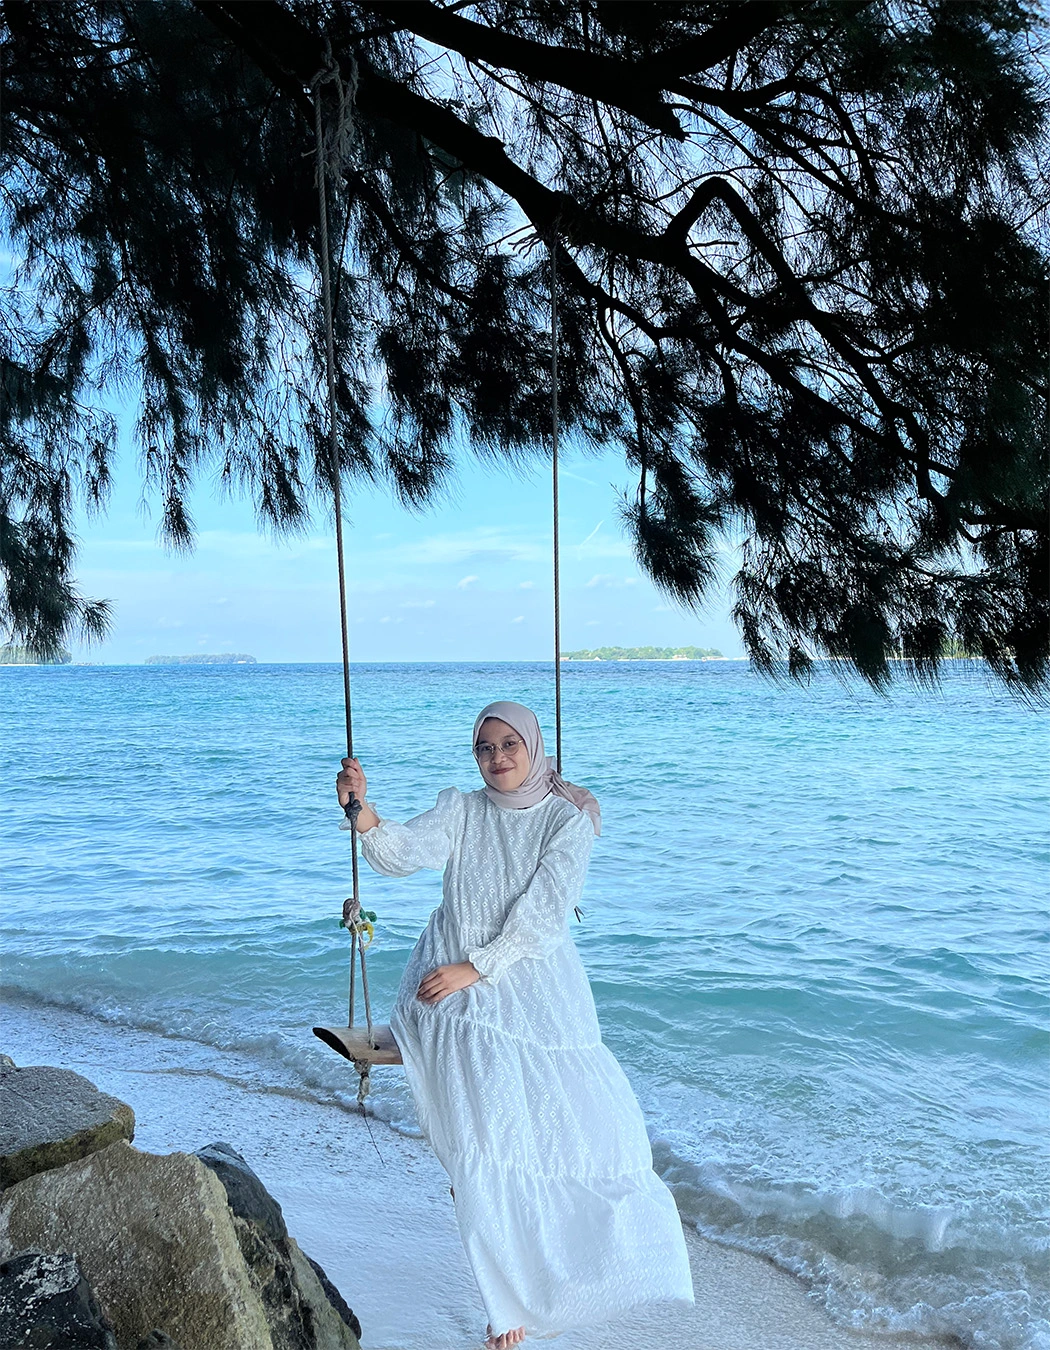
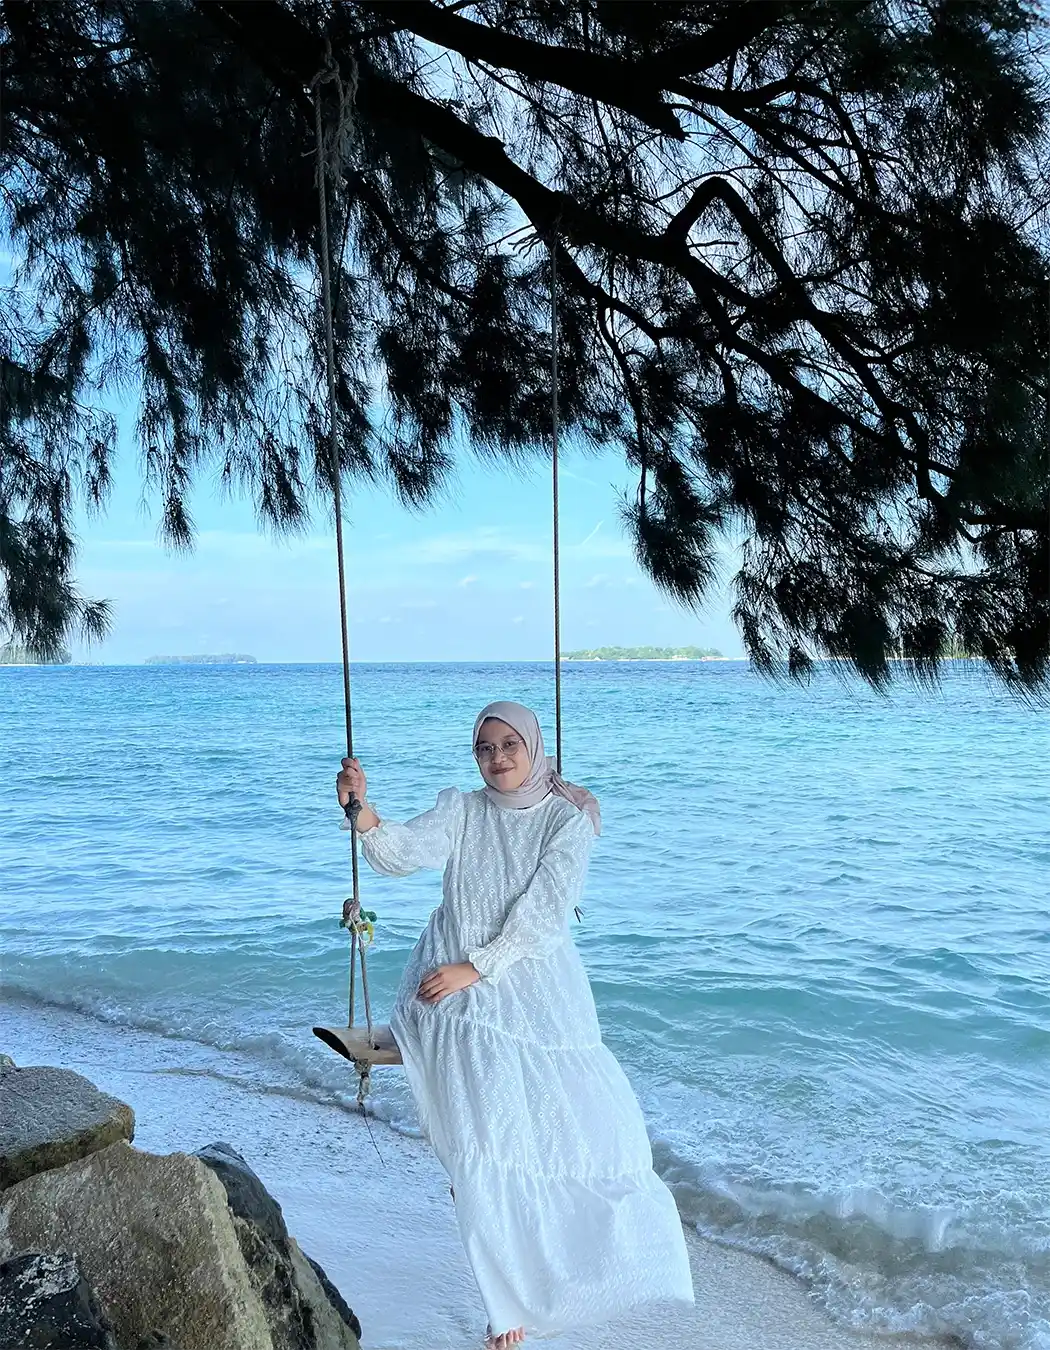
perbaikan load ringan

diff --git a/script.js b/script.js
@@ -27,54 +27,53 @@ window.openInvitation = function () {
   const content = document.getElementById("content");
   const hero = document.querySelector(".hero");
 
-  // 🎵 (optional safety)
   const music = document.getElementById("music");
   const btn = document.getElementById("musicBtn");
   let isPlaying = false;
 
-  // buka cover
-  cover.classList.add("open");
+  // fade cover
+  cover.classList.add("hide");
 
+  // 🎬 delay biar smooth
   setTimeout(() => {
 
-    // tampilkan content
+    // ✅ AKTIFKAN BACKGROUND PREMIUM
+    document.body.classList.add("opened");
+
+    // tampilkan konten
     cover.style.display = "none";
     content.style.display = "block";
 
-    // reset posisi scroll
+    // reset scroll
     window.scrollTo({ top: 0, behavior: "instant" });
 
-    // 🎬 TIMELINE CINEMATIC
+    // 🎬 GSAP TIMELINE
     const tl = gsap.timeline();
 
-    // 🌄 background fade
     tl.fromTo(".bg-anim",
       { opacity: 0 },
       { opacity: 1, duration: 2 }
     )
 
-    // 🌫 kabut muncul pelan
     .fromTo(".fog",
       { opacity: 0 },
       { opacity: 0.5, duration: 3 },
       "-=1.5"
     )
 
-    // 🌳 pohon muncul
     .fromTo(".pohon",
       { opacity: 0, y: 30 },
       { opacity: 1, y: 0, duration: 2 },
       "-=2"
     )
 
-    // 🏡 rumah zoom masuk (fokus utama)
     .fromTo(".rumah-anim",
       { scale: 0.6, opacity: 0, y: 50 },
       { scale: 1, opacity: 1, y: 0, duration: 1.5, ease: "power3.out" },
       "-=1.5"
     );
 
-    // 🌳 pohon goyang halus (AFTER muncul)
+    // 🌳 animasi loop
     gsap.to(".pohon", {
       rotate: 2,
       duration: 3,
@@ -84,7 +83,7 @@ window.openInvitation = function () {
       delay: 2.5
     });
 
-    // 🌫 kabut jalan (loop)
+    // 🌫 kabut loop
     gsap.to(".fog-1", {
       x: "-50%",
       duration: 60,
@@ -99,7 +98,7 @@ window.openInvitation = function () {
       ease: "linear"
     });
 
-    // 🦋 kupu (optional)
+    // 🦋 kupu optional
     if (document.querySelector(".kupu")) {
       gsap.to(".kupu", {
         x: 80,
@@ -120,9 +119,7 @@ window.openInvitation = function () {
       });
     }
 
-    
-
-    // 🎵 MUSIC (safe play)
+    // 🎵 MUSIC
     if (music) {
       music.play().then(() => {
         isPlaying = true;
@@ -130,14 +127,14 @@ window.openInvitation = function () {
       }).catch(() => {});
     }
 
-    // ⏳ AUTO SCROLL (lebih cinematic)
+    // ⏳ AUTO SCROLL
     setTimeout(() => {
       if (hero) {
         hero.scrollIntoView({ behavior: "smooth" });
       }
     }, 6000);
 
-  }, 1000);
+  }, 800); // sedikit lebih cepat biar responsif
 };
 /* =========================
    👤 NAMA TAMU

diff --git a/style.css b/style.css
@@ -18,14 +18,23 @@ html, body {
 
 body {
   font-family: 'Poppins', sans-serif;
-  background: linear-gradient(135deg, #0f0f23 0%, #1a1a3e 50%, #2d2d5a 100%);
   color: #fff;
   min-height: 100vh;
   position: relative;
+
+  /* default: KOSONG dulu */
+  background: #0f0f23;
+
+  transition: background 1s ease;
+}
+
+/* setelah dibuka */
+body.opened {
   background: url('assets/bg-web.webp') no-repeat center center;
   background-size: cover;
-  background-attachment: fixed; /* efek premium */
+  background-attachment: fixed;
 }
+
 
 @font-face {
   font-family: 'Stay Classy';
@@ -55,6 +64,12 @@ body {
     url('assets/cover.webp') center/cover no-repeat;
 
   overflow: hidden;
+transition: opacity 1s ease, visibility 1s ease;
+}
+
+.cover.hide {
+  opacity: 0;
+  visibility: hidden;
 }
 
 .guest-section {
@@ -1152,12 +1167,12 @@ body {
 
 .btn-copy {
   background: linear-gradient(45deg, #FFD700, #FFEA00);
-  color: black;
+  color: rgb(255, 255, 255);
   font-weight: bold;
 
   box-shadow:
     0 5px 20px rgba(255,215,0,0.4),
-    inset 0 1px 3px rgba(255,255,255,0.5);
+    inset 0 1px 3px rgba(0, 0, 0, 0.5);
 }
 
 .btn-copy:hover {
@@ -2123,3 +2138,8 @@ section {
   to { transform: translateX(0); }
 }
 
+@media (max-width: 768px) {
+  body.opened {
+    background-attachment: scroll;
+  }
+}

diff --git a/index.html b/index.html
@@ -1,6 +1,7 @@
 <!DOCTYPE html>
 <html lang="id">
 <head>
+<link rel="preload" as="image" href="assets/bg-web.webp">
 <meta charset="UTF-8">
 <meta name="viewport" content="width=device-width, initial-scale=1.0">
 <title>Undangan Pernikahan H&R - Eternal Love</title>
@@ -104,10 +105,10 @@
   <div class="fog fog-2"></div>
 
   
-  <img src="assets/pohon-kiri.png" class="pohon kiri">
-  <img src="assets/pohon-kanan.png" class="pohon kanan">
+  <img src="assets/pohon-kiri.webp" class="pohon kiri">
+  <img src="assets/pohon-kanan.webp" class="pohon kanan">
 
-  <img src="assets/rumah.png" class="rumah-anim">
+  <img src="assets/rumah.webp" class="rumah-anim">
 
   <!-- optional -->
   <img src="assets/immagine-immagineit.gif" class="kupu">
